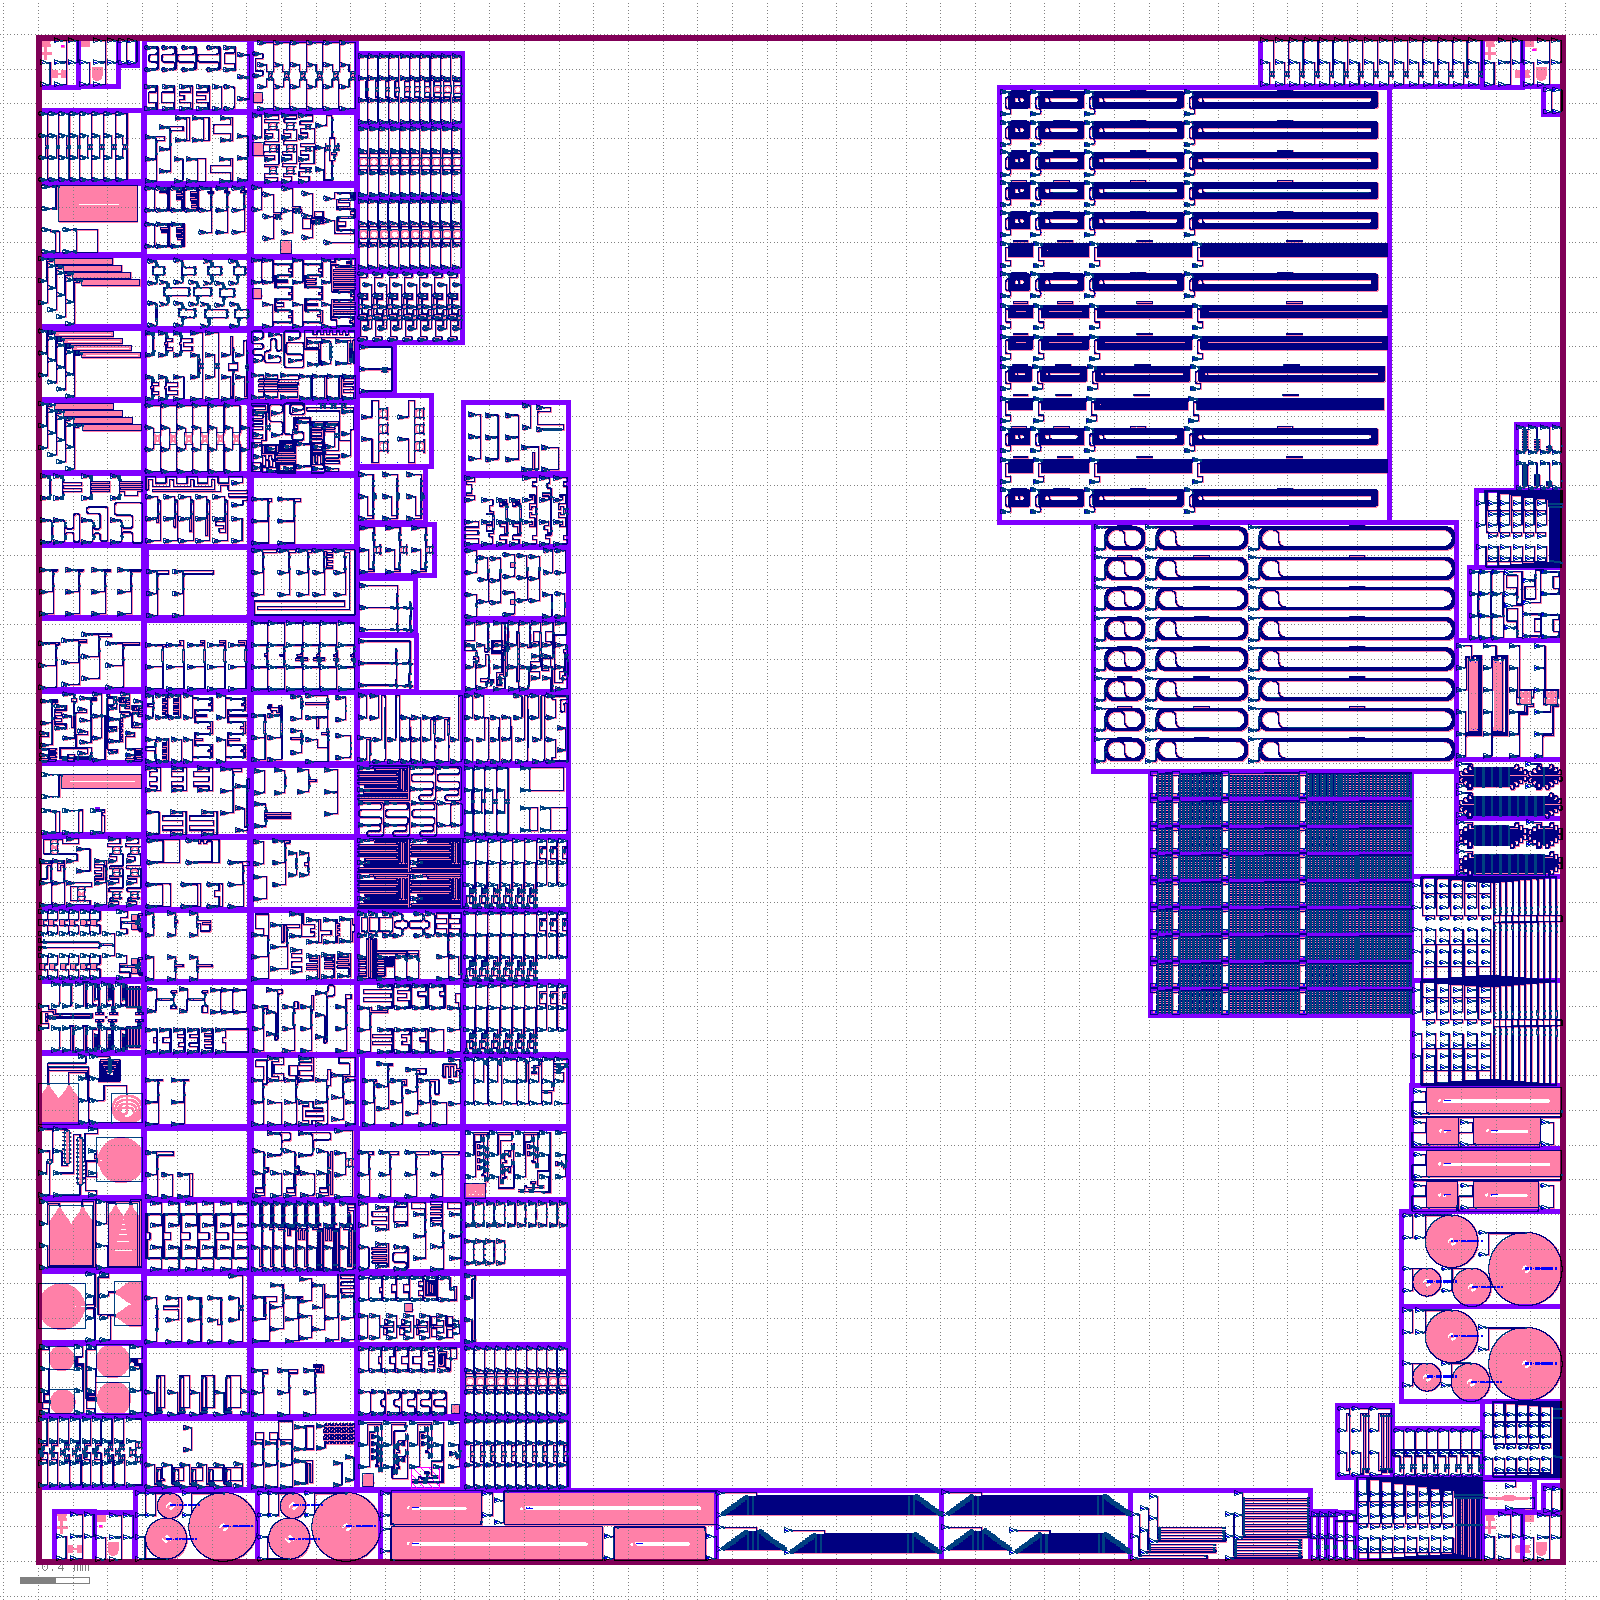
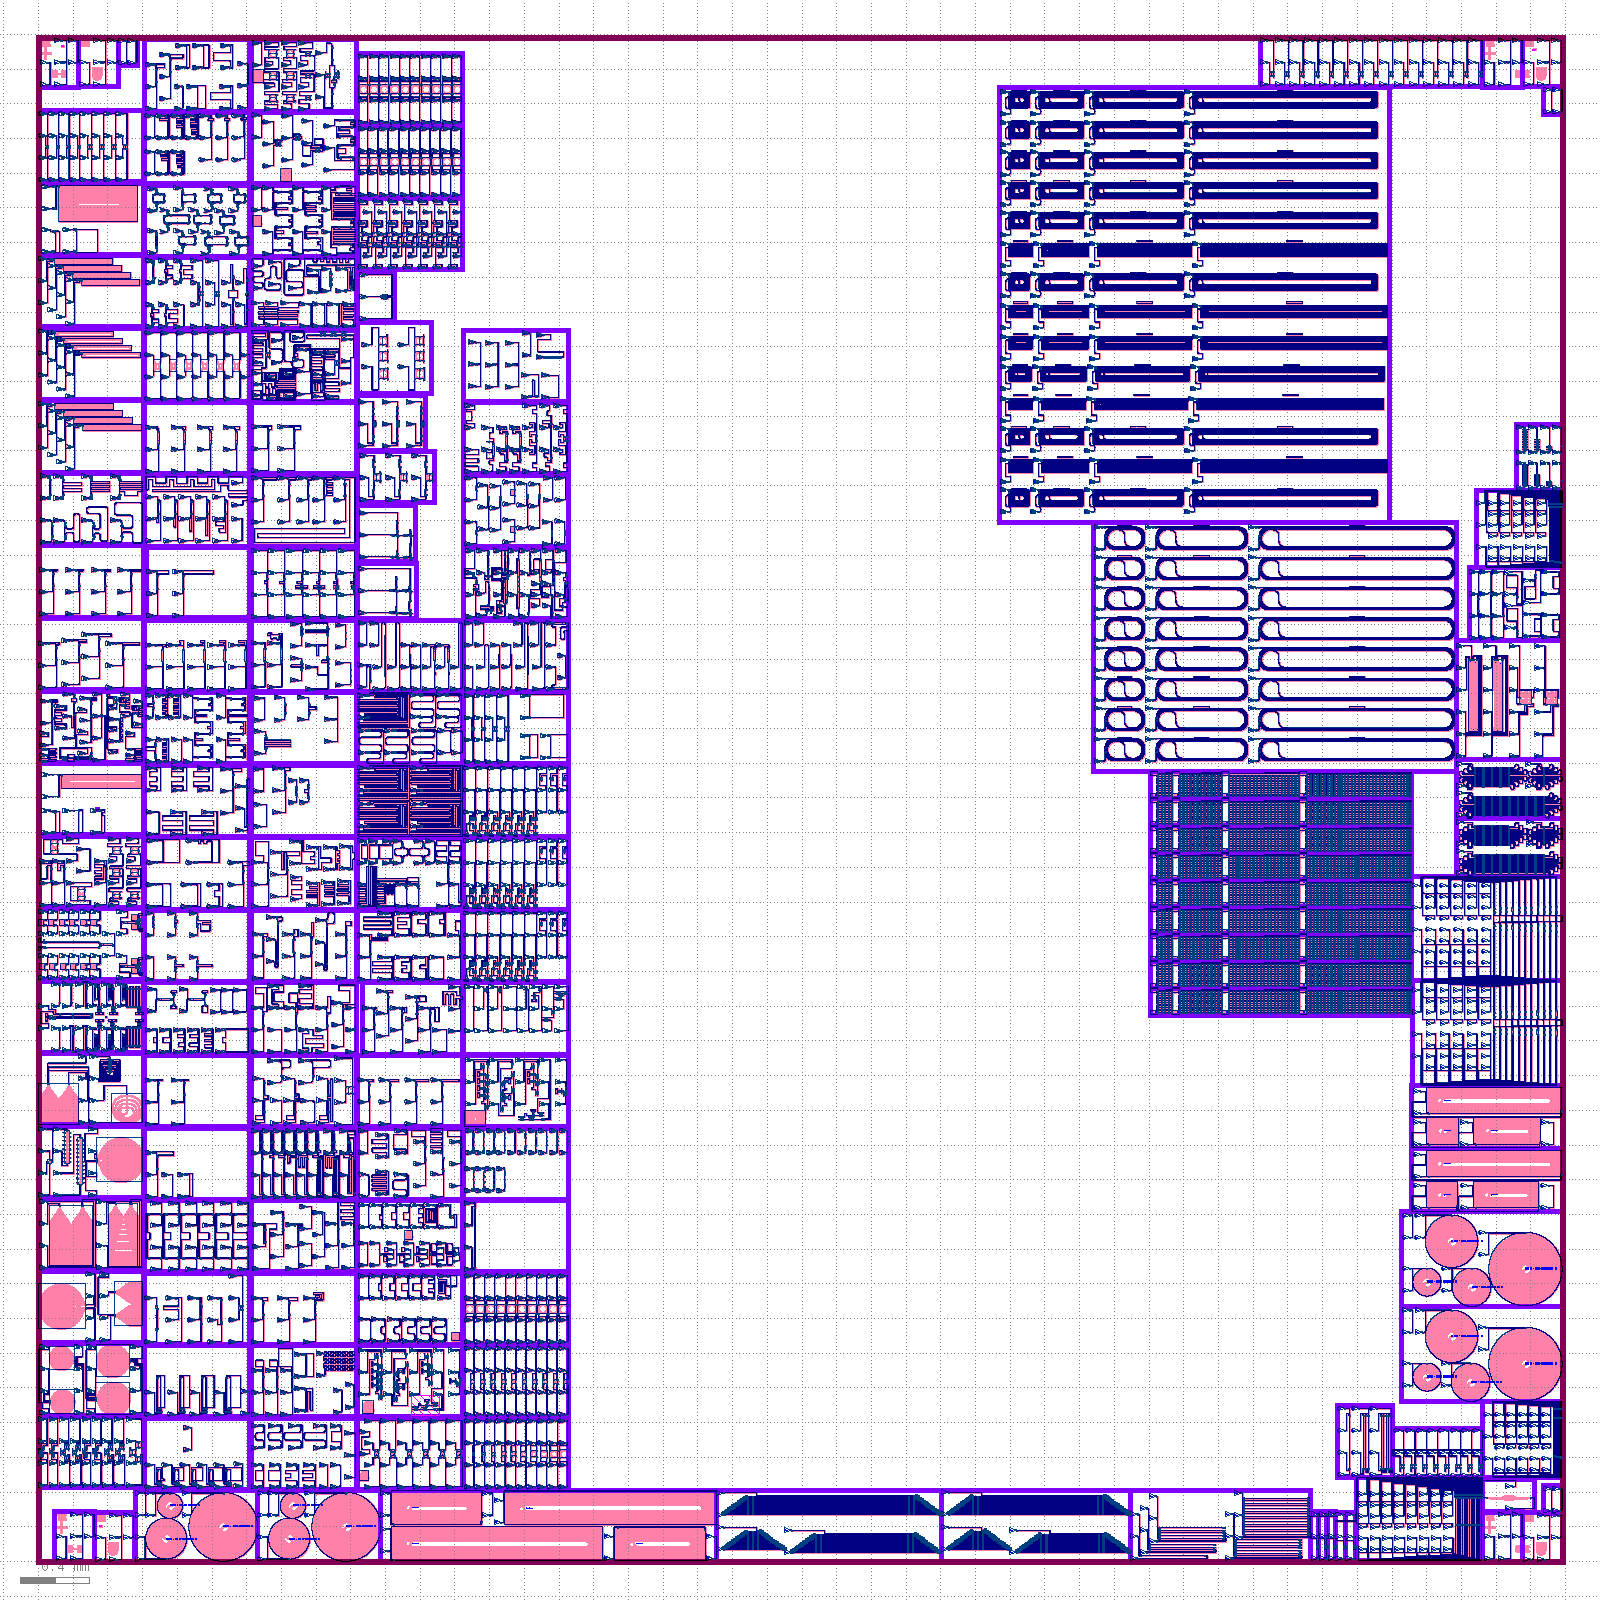
Aggregation layout: https://github.com/SiEPIC/openEBL-2026-05/actions/runs/25945233744/artifacts/7027961558

Changed region(s): [[0.0938, 0.0, 0.375, 0.9375]]

diff --git a/README.md b/README.md
@@ -91,5 +91,5 @@ Will be added here.
 
 Click on the following link to download the EBeam.oas merged layout file:
 <!-- start-link -->
-https://github.com/SiEPIC/openEBL-2026-05/actions/runs/25943831535/artifacts/7027443817
+https://github.com/SiEPIC/openEBL-2026-05/actions/runs/25945233744/artifacts/7027961558
 <!-- end-link -->